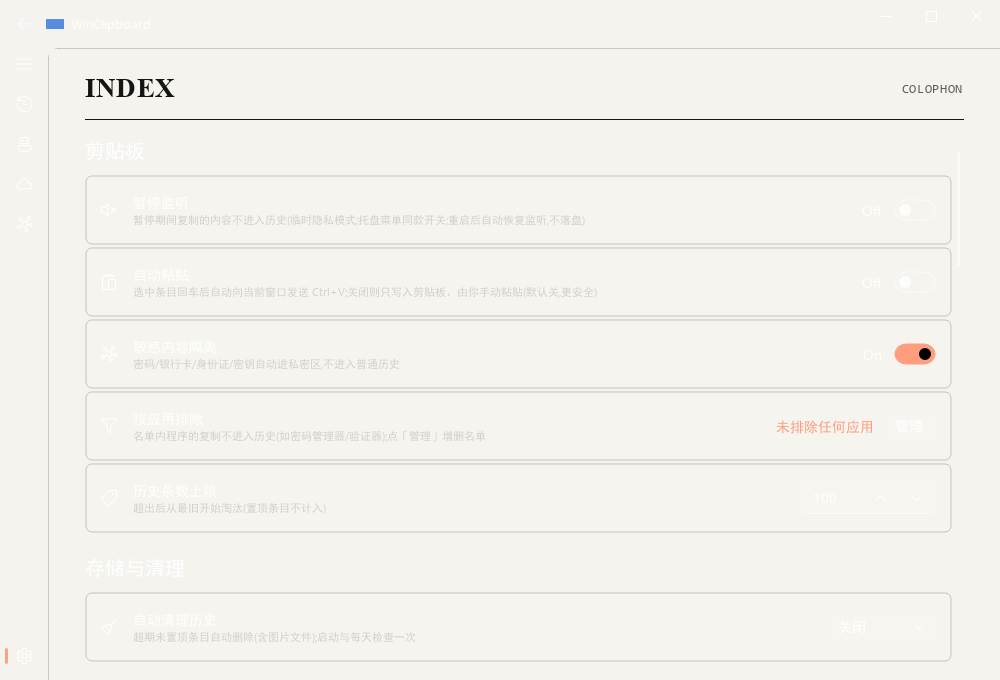
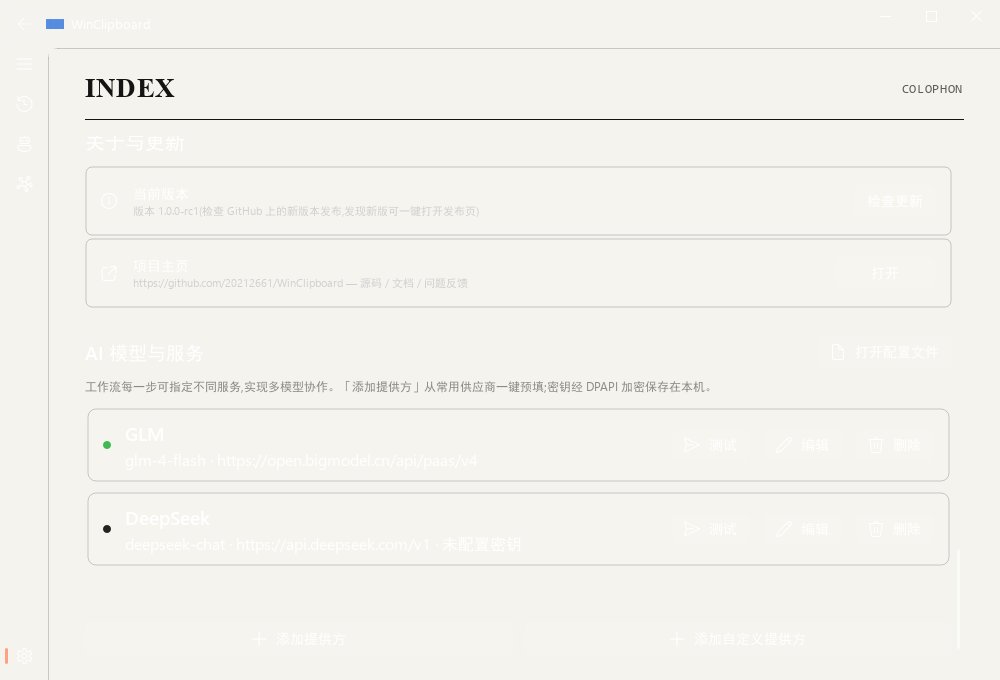
refactor(nav): AI 服务并入设置页,左侧导航精简为四入口
- MainWindow 撤销「AI 服务」独立导航项,ServicesPage 以 embedded
  形态内嵌进 SettingsPage 滚动区(「AI 模型与服务」区块:紧凑边距
  (0,8),小节标题替代大 TitleLabel;win.services_page 属性保留)
- show_services 重定向:refresh → 切设置页 → 滚动定位到 AI 服务
  区块(设置页暴露 scroll/_body_lay)
- 右栏 AI 工作台模型下拉旁加「配置…」直达设置页 AI 区块(替身
  环境降级提示);种子模板/工具提示文案同步改口「设置 → AI 模型
  与服务」
- 集成断言随 UX 变更:show_services 断言切到设置页且 services_page
  仍挂载;文档截图脚本设置页滚至 AI 区块拍摄,移除 main_services
  (README 导航描述同步)
- 验收:run_checks 17/17、集成 PASS、导航四入口与设置页 AI 区块
  均已渲染核验

diff --git a/winclipboard_qt.py b/winclipboard_qt.py
@@ -1450,7 +1450,7 @@ class HistoryPage(QWidget):
 # 主窗口(FluentWindow:库标准导航壳,所有功能收进单一窗口)
 # ============================================================
 class MainWindow(FluentWindow):
-    """单一主窗口:左侧导航 = 剪贴板 / 工作流 / AI 服务 / 私密区 / 设置。
+    """单一主窗口:左侧导航 = 剪贴板 / 工作流 / 私密区 / 设置(AI 服务并入设置页)。
 
     热键或托盘切换显示;点窗口关闭按钮 = 隐藏(程序常驻托盘)。
     """
@@ -1500,12 +1500,14 @@ class MainWindow(FluentWindow):
                 pass
         self.history_page = HistoryPage(app)
         self.workflow_page = WorkflowPage(app)
-        self.services_page = ServicesPage(app)
         self.private_page = PrivatePage(app)
         self.settings_page = SettingsPage(app)
+        # AI 服务为低频配置:并入设置页「AI 模型与服务」区块,
+        # 左侧一级导航精简为 剪贴板/工作流/私密区/设置
+        self.services_page = ServicesPage(app, embedded=True)
+        self.settings_page._body_lay.addWidget(self.services_page)
         self.addSubInterface(self.history_page, FIF.HISTORY, "剪贴板")
         self.addSubInterface(self.workflow_page, FIF.ROBOT, "工作流")
-        self.addSubInterface(self.services_page, FIF.CLOUD, "AI 服务")
         self.addSubInterface(self.private_page, FIF.IOT, "私密区")
         self.addSubInterface(self.settings_page, FIF.SETTING, "设置",
                              NavigationItemPosition.BOTTOM)
@@ -1975,6 +1977,8 @@ class SettingsPage(QWidget):
         lay.setSpacing(20)
         scroll.setWidget(body)
         outer.addWidget(scroll, 1)
+        self.scroll = scroll           # 供 show_services 定位滚动
+        self._body_lay = lay           # 供 AI 服务区块内嵌
         cfg = app.cfg
         self._health_done.connect(self._show_health_result)
 
@@ -3790,7 +3794,11 @@ class WinClipboardApp(QObject):
 
     def show_services(self):
         self.win.services_page.refresh()   # 配置可能在别处变动(如工作流页填入示例)
-        self.win.switchTo(self.win.services_page)
+        self.win.switchTo(self.win.settings_page)
+        scroll = getattr(self.win.settings_page, "scroll", None)
+        if scroll is not None:
+            QTimer.singleShot(0, lambda: scroll.ensureWidgetVisible(
+                self.win.services_page))
 
     def run_workflow(self, wf, rec, auto=False):
         try:

diff --git a/ai_quick.py b/ai_quick.py
@@ -657,8 +657,8 @@ class EmbeddedAIPanel(QWidget):
         send_row = QHBoxLayout()
         send_row.setSpacing(6)
         self.service = ComboBox()
-        self.service.setMinimumWidth(120)
-        self.service.setToolTip("使用「AI 服务」页配置的模型;留空时先去配置")
+        self.service.setMinimumWidth(100)
+        self.service.setToolTip("使用设置页「AI 模型与服务」里配置的模型")
         # 右侧留出下拉箭头位,防止占位文字末尾与箭头粘连
         self.service.setStyleSheet(
             "QComboBox { background: #F4F3EE; border: 1px solid #E5E3DC;"
@@ -676,7 +676,13 @@ class EmbeddedAIPanel(QWidget):
             " border-radius: 8px; padding: 5px 14px; font-weight: 600; }"
             "QPushButton:hover { background: #C6613F; }"
             "QPushButton:disabled { background: rgba(217,119,87,0.40); }")
+        self.btn_cfg_svc = PushButton("配置…")
+        self.btn_cfg_svc.setFixedHeight(28)
+        self.btn_cfg_svc.setStyleSheet(result_qss)
+        self.btn_cfg_svc.setToolTip("跳转到设置页的「AI 模型与服务」区块")
+        self.btn_cfg_svc.clicked.connect(self._configure_services)
         send_row.addWidget(self.service)
+        send_row.addWidget(self.btn_cfg_svc)
         send_row.addStretch(1)
         send_row.addWidget(self.stop)
         send_row.addWidget(self.send_button)
@@ -781,6 +787,14 @@ class EmbeddedAIPanel(QWidget):
         menu.addAction(am)
         menu.exec(self.btn_workflow.mapToGlobal(
             self.btn_workflow.rect().bottomLeft()))
+
+    def _configure_services(self):
+        """跳设置页「AI 模型与服务」区块(替身环境降级提示)。"""
+        fn = getattr(self.app, "show_services", None)
+        if fn is None:
+            self._notice("当前环境没有 AI 服务配置页")
+            return
+        fn()
 
     def _manage_workflows(self):
         hub = getattr(self.app, "show_ai_hub", None)

diff --git a/workflow_ui.py b/workflow_ui.py
@@ -428,7 +428,9 @@ class ProviderCard(SimpleCardWidget):
 class ServicesPage(QWidget):
     """AI 供应商管理(OpenCode 风格):供应商卡片 + 预设/自定义两种添加入口。"""
 
-    def __init__(self, app):
+    def __init__(self, app, embedded=False):
+        """embedded=True:作为「AI 模型与服务」区块内嵌进设置页
+        (紧凑边距、小节标题;False 保持独立页面形态,兼容旧测试)。"""
         super().__init__()
         self.app = app
         self.setObjectName("servicesPage")
@@ -436,11 +438,16 @@ class ServicesPage(QWidget):
         self.cards = []
 
         v = QVBoxLayout(self)
-        v.setContentsMargins(36, 24, 36, 16)
+        v.setContentsMargins(0, 8, 0, 8 if embedded else 16)
         v.setSpacing(10)
 
         head = QHBoxLayout()
-        head.addWidget(TitleLabel("AI 服务"))
+        if embedded:
+            sec = StrongBodyLabel("AI 模型与服务")
+            sec.setFont(font(14, QFont.DemiBold))
+            head.addWidget(sec)
+        else:
+            head.addWidget(TitleLabel("AI 服务"))
         head.addStretch(1)
         b_cfg = PushButton("打开配置文件", self)
         b_cfg.setIcon(FIF.DOCUMENT.icon())
@@ -1008,7 +1015,7 @@ class WorkflowPage(QWidget):
                 added += 1
         cm.save_config(cfg)
         self.refresh()
-        InfoBar.success("示例已加入", "新增 %d 个工作流模板;请到「AI 服务」填入密钥后使用" % added,
+        InfoBar.success("示例已加入", "新增 %d 个工作流模板;请到 设置 →「AI 模型与服务」填入密钥后使用" % added,
                         parent=self, position=InfoBarPosition.TOP_RIGHT)
 
 

diff --git a/_ui_doc_shots.py b/_ui_doc_shots.py
@@ -6,7 +6,7 @@
     python _ui_doc_shots.py dark
 
 输出 docs/ui/2026-10-15/<名称>_<主题>.png:
-    main_history / main_workflow / main_services / main_private / main_settings
+    main_history / main_workflow / main_private / main_settings(滚至 AI 模型与服务区)
     quickpaste / viewer_code / viewer_json / viewer_md / viewer_csv
     viewer_files / viewer_image / viewer_diff / quick_ai / wheel
 
@@ -248,14 +248,13 @@ shot(win, "main_history", settle=2.0)
 win.switchTo(win.workflow_page)
 shot(win, "main_workflow")
 
-win.switchTo(win.services_page)
-shot(win, "main_services")
+# AI 服务已并入设置页:设置页截图滚动到「AI 模型与服务」区块再拍
+win.switchTo(win.settings_page)
+win.settings_page.scroll.ensureWidgetVisible(win.services_page)
+shot(win, "main_settings")
 
 win.switchTo(win.private_page)
 shot(win, "main_private")
-
-win.switchTo(win.settings_page)
-shot(win, "main_settings")
 
 # ---- 2) 快捷粘贴浮层(Alt+`) ----
 from quickpaste import QuickPasteWindow   # noqa: E402

diff --git a/_integration_test.py b/_integration_test.py
@@ -243,7 +243,9 @@ check("种子幂等", len(json.load(open(cm.CONFIG_FILE, encoding="utf-8"))
 
 a.show_services()
 pump(0.3)
-check("导航切到 AI 服务页", a.win.stackedWidget.currentWidget() is a.win.services_page)
+# AI 服务已并入设置页:show_services 应切到设置并保留 services_page 引用
+check("show_services 切到设置页", a.win.stackedWidget.currentWidget() is a.win.settings_page
+      and a.win.services_page.parent() is not None)
 a.show_ai_hub()
 pump(0.2)
 

diff --git a/README.md b/README.md
@@ -3,7 +3,7 @@
 一个轻量、常驻系统托盘的 Windows 剪贴板增强工具,自动记录文本/图片/文件剪贴历史,
 支持全局热键唤出、搜索、置顶、删除、自动粘贴与持久化。
 界面为**单一 FluentWindow 主窗口**(PySide6-Fluent-Widgets 原生组件与主题,
-左侧导航:剪贴板 / 工作流 / AI 服务 / 私密区 / 设置);剪贴板页为
+左侧导航:剪贴板 / 工作流 / 私密区 / 设置,AI 服务并入设置页);剪贴板页为
 **左右双栏**:左栏是卡片流 + 预览,右栏常驻 **AI 工作台 + 上下文篮**
 (选中卡片即材料,解释/翻译/总结/润色一键直达,零散资料收进上下文包随取随用)。
 
@@ -13,7 +13,7 @@
 
 | 功能 | 说明 |
 |------|------|
-| 🖥 单一主窗口 | FluentWindow 导航式主窗口(剪贴板/工作流/AI 服务/私密区/设置);剪贴板页**左右双栏**——左栏卡片流 + 底部预览,右栏常驻 AI 工作台与上下文篮(宽约 340px,选中卡片即材料) |
+| 🖥 单一主窗口 | FluentWindow 导航式主窗口(剪贴板/工作流/私密区/设置;AI 服务作为「AI 模型与服务」区块并入设置页);剪贴板页**左右双栏**——左栏卡片流 + 底部预览,右栏常驻 AI 工作台与上下文篮(宽约 340px,选中卡片即材料) |
 | 🪟 右栏 AI 工作台 | 主界面右栏常驻:**解释/翻译/总结/润色**一键发送;**复制 Prompt 免 Key**(材料 + 上下文包 + 问题 → 自动脱敏 → 进剪贴板,粘给任意 AI 工具);提问框 `Ctrl+Enter` 发送;材料随左侧选中卡片自动跟随;结果可复制 / 贴回原窗 / 存历史 / 入上下文包;「工作流」按钮一键带材料运行已配置工作流(见下文) |
 | 🧺 上下文篮(上下文包) | 把零散资料收进**上下文包**:卡片「+入包」按钮 / 右键「加入上下文包」/ 浮层 `Ctrl+B` / 快速 AI 轮盘第 6 扇区 / 查看器选区,五路入口;条目可勾选启停、排序、估算 tokens,预算超标如实警示;拼装结果可预览/复制/**直接贴回原窗口**(`Alt+Enter`);工作流与 AI 提示词用 `{context}` 占位符即可注入(绑定「当前活动包」自动跟随) |
 | 🖥 系统托盘常驻 | 后台运行,关闭按钮只隐藏,真正退出走托盘菜单 |
@@ -64,7 +64,7 @@
 
 ## ⚡ 快速 AI 入口(轮盘)
 
-在「AI 服务」页配置模型后,复制文字并按 **Ctrl + Alt + 空格**,在鼠标附近的轮盘选择解释、翻译、总结、润色、自定义提问或带资料提问。鼠标点击/拖动松开或数字 **1–6** 选择;中心、右键或 **Esc** 取消。
+在设置页「AI 模型与服务」配置模型后,复制文字并按 **Ctrl + Alt + 空格**,在鼠标附近的轮盘选择解释、翻译、总结、润色、自定义提问或带资料提问。鼠标点击/拖动松开或数字 **1–6** 选择;中心、右键或 **Esc** 取消。
 
 前四项可直接生成,后两项先输入问题。结果在浮窗显示,支持复制、明确点击粘贴回原窗口、存入历史和加入上下文包;**Ctrl + Enter** 发送,**Ctrl + Shift + C「复制 Prompt」**——不调用服务,把材料 + 上下文包 + 问题组装成完整 Prompt(经隐私确认)复制,粘给任意网页 AI 也行。生成期间不自动覆盖剪贴板,敏感内容发送前可遮盖或取消。设置页可以打开轮盘或更改热键;文本历史卡片右键也有"快速 AI…"。第 **6** 扇区「收入上下文包」不进 AI 窗口,直接把剪贴板内容收进当前上下文包。
 
@@ -82,7 +82,7 @@
 1. 左栏点选任意**文本卡片** → 工作台"材料"行自动跟随(标题/摘要可见;生成中不抢占)。
 2. 点 **解释 / 翻译 / 总结 / 润色** 直接发送(可再点击取消勾选,回到"提问"语义);
    或在提问框输入问题按 **Ctrl + Enter** 发送。
-3. 没配 API Key?点 **复制 Prompt**:材料 + 勾选的上下文包 + 问题组装为完整
+3. 没配 API Key?点 **复制 Prompt**(或模型下拉旁的「配置…」直达设置页):材料 + 勾选的上下文包 + 问题组装为完整
    Prompt,经 `privacy_scan` **自动脱敏**后复制——粘到任何 AI 工具都能用。
 4. 回答出来后:复制 / **贴回原窗**(从外部窗口呼出主界面时的那个窗口)/
    存入历史 / 加入上下文包,四个按钮随意组合。
